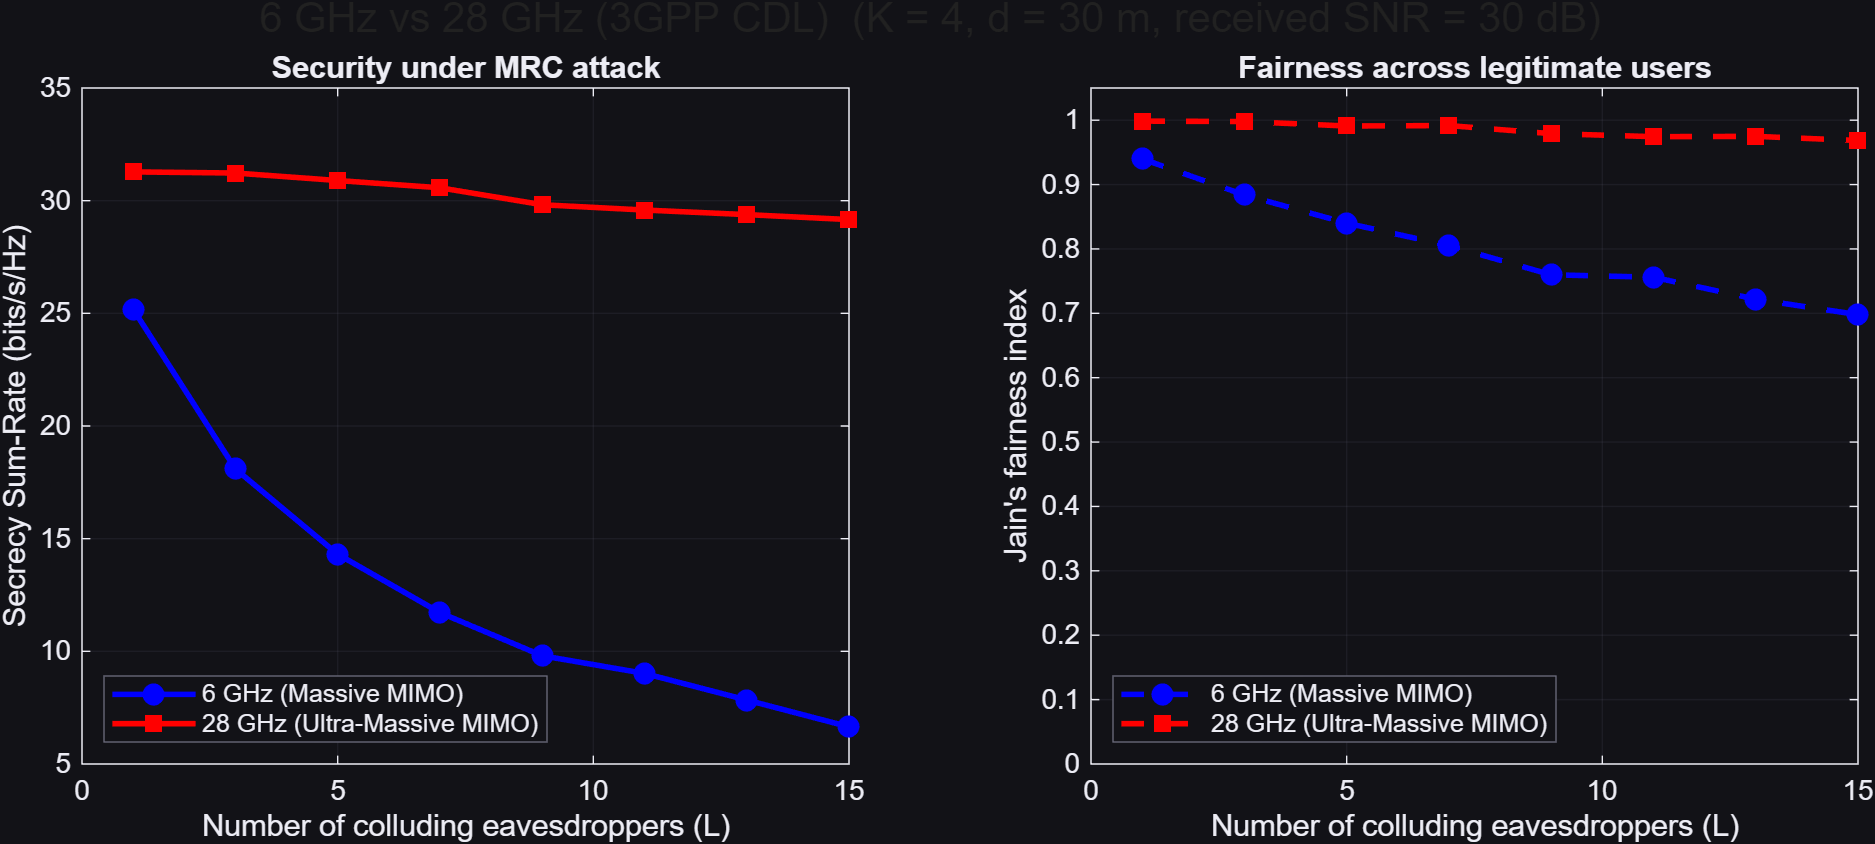
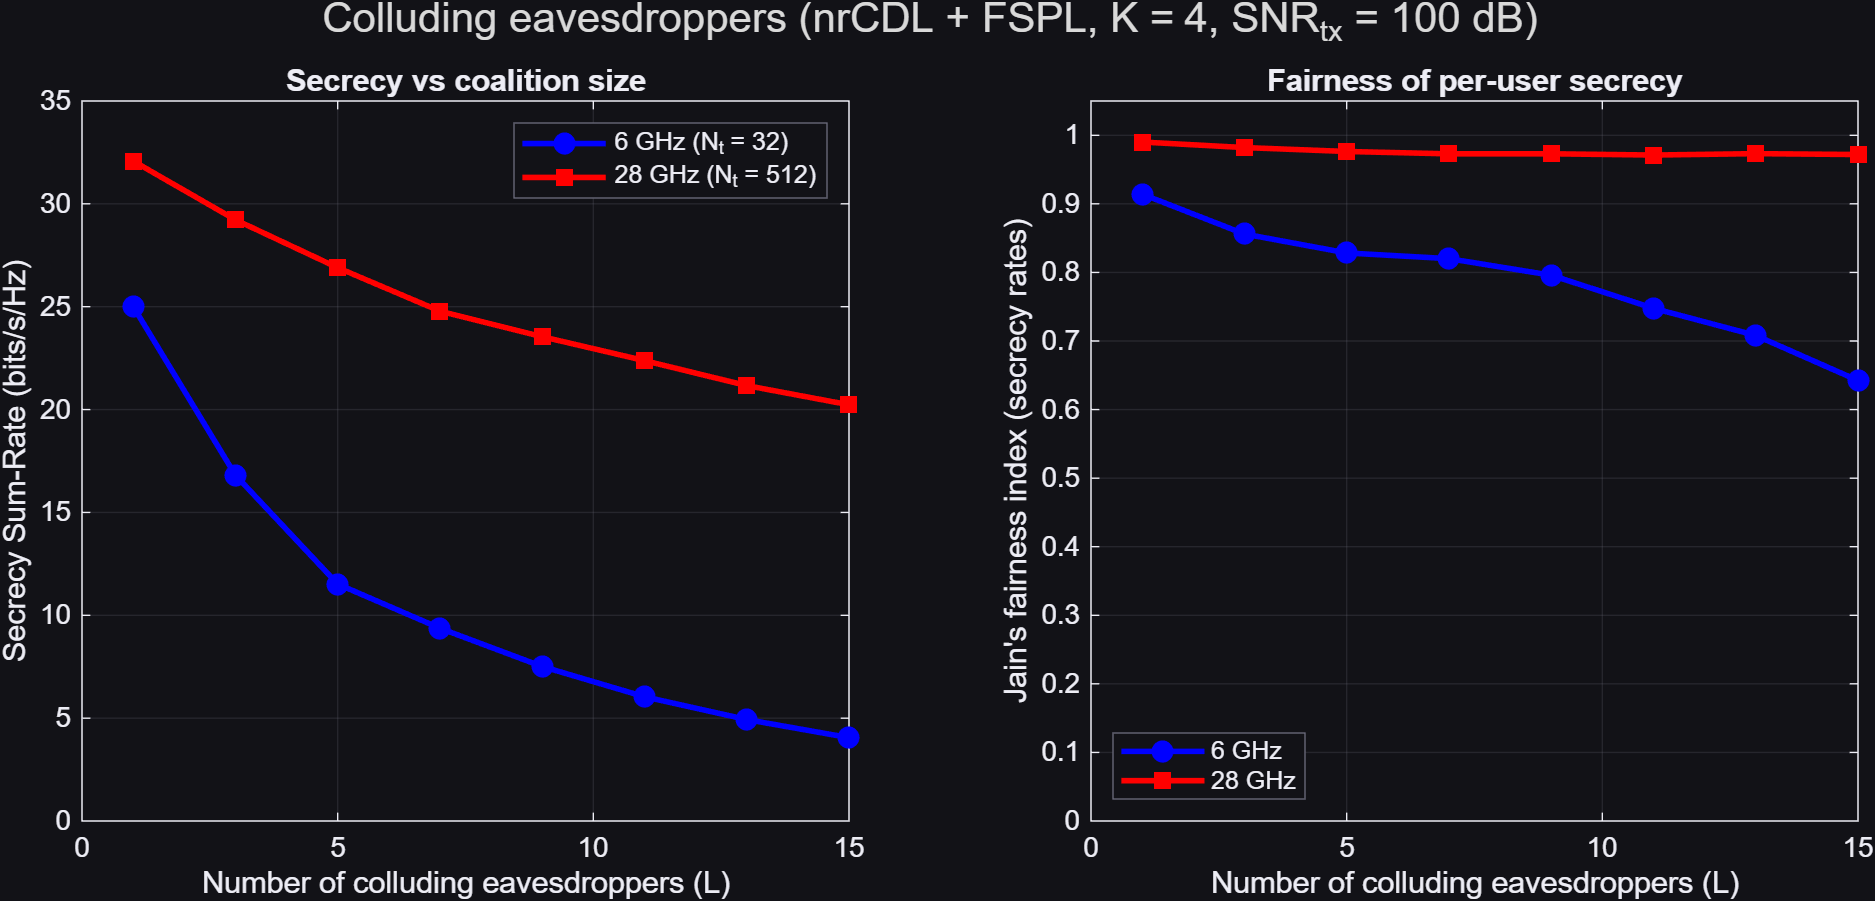
Fix colluding eavesdroppers scenario and align README conventions

diff --git a/simulations/sim_colluding_eavesdroppers.m b/simulations/sim_colluding_eavesdroppers.m
@@ -1,184 +1,157 @@
 % =========================================================================
-% SCENARIO: 6 GHz vs 28 GHz under Targeted Attack with ARTIFICIAL NOISE
+% SCENARIO: Colluding eavesdroppers (6 GHz vs 28 GHz)
 % -------------------------------------------------------------------------
-% Porównanie odporności systemu z włączonym i wyłączonym Sztucznym Szumem.
-% BS dzieli moc: 70% na dane, 30% na zagłuszanie (AN) w null-space Bobów.
+% nrCDLChannel + FSPL + Transmit SNR.
+% BS: ZF across K Bobs. Eve coalition: cooperative MRC (R = I_L).
+% Sweep: number of cooperating eavesdroppers L.
 % =========================================================================
 pls_startup();
 addpath(fullfile(fileparts(mfilename('fullpath')), '..', 'utils'));
 p = default_params();
 rng(p.rng_seed);
 
-% --- PARAMETRY FIZYCZNE I SYSTEMOWE ---
-dist        = 50;                     
-L_values    = 1:2:15;                 
-K           = 4;                      
-numIter     = 10;                     
-SNR_tx_dB   = 100;                    
-P_tx        = 10^(SNR_tx_dB / 10);
-
-% Parametry Sztucznego Szumu
-phi_AN      = 0.7; % 70% mocy na przesył danych, 30% na Sztuczny Szum
+dist      = 50;
+L_values  = 1:2:15;
+K         = 4;
+numIter   = p.numIter;
+SNR_tx_dB = 100;
+P_tx      = 10^(SNR_tx_dB / 10);
+noise_var = 1;
 
 bands = struct( ...
     'name', {'6 GHz', '28 GHz'}, ...
     'fc',   {p.fc_sub6, p.fc_mmwave}, ...
-    'Nt',   {p.Nt_sub6, p.Nt_mmwave}, ...
-    'cdl',  {p.cdl_sub6, p.cdl_mmwave});
+    'Nt',   {p.Nt_sub6, p.Nt_mmwave});
 
-% Macierze wynikowe: (Pasmo, Tryb_AN, L_values)
-results_SR    = zeros(2, 2, length(L_values));
-results_Fair  = zeros(2, 2, length(L_values));
-
+results_SR   = zeros(2, length(L_values));
+results_Fair = zeros(2, length(L_values));
 max_L = max(L_values);
 
 for b = 1:2
-    fc = bands(b).fc;  Nt = bands(b).Nt;  
+    fc = bands(b).fc;
+    Nt = bands(b).Nt;
     [PL_lin, PL_dB] = compute_fspl(dist, fc);
-    
-    fprintf('\n--- Symulacja Artificial Noise @ %s ---\n', bands(b).name);
-    
+
+    fprintf('\n--- Colluding eavesdroppers @ %s ---\n', bands(b).name);
+    fprintf('  Transmit SNR: %d dB\n', SNR_tx_dB);
+    fprintf('  d = %g m (FSPL: %.2f dB)\n', dist, PL_dB);
+
     cdl_b = cell(K, 1);
-    for k = 1:K, cdl_b{k} = nrCDLChannel; end
+    for k = 1:K
+        cdl_b{k} = nrCDLChannel;
+    end
     cdl_e = cell(max_L, 1);
-    for e = 1:max_L, cdl_e{e} = nrCDLChannel; end
+    for e = 1:max_L
+        cdl_e{e} = nrCDLChannel;
+    end
 
     for l_idx = 1:length(L_values)
         num_eve = L_values(l_idx);
-        % Akumulatory: [Bez AN, Z AN]
-        SR_acc = zeros(1, 2); 
-        F_acc  = zeros(1, 2);
-        
+        SR_acc = 0;
+        F_acc  = 0;
+
         for it = 1:numIter
-            theta_bobs = -60 + 120*rand(1, K);
-            
-            % Atak z bliska (Ewy skradają się pod kąty Bobów)
-            target_bob_idx = randi(K, 1, num_eve); 
-            angular_error  = -6 + 12 * rand(1, num_eve); 
-            theta_eves     = theta_bobs(target_bob_idx) + angular_error;
-            
+            theta_bobs = -60 + 120 * rand(1, K);
+            theta_eves = -60 + 120 * rand(1, num_eve);
+
             H_eff = zeros(Nt, K);
             for k = 1:K
                 cdl_b{k} = setup_matlab_cdl(cdl_b{k}, Nt, fc, theta_bobs(k));
-                cdl_b{k}.Seed = randi([0 2^31-1]);
+                release(cdl_b{k});
+                cdl_b{k}.Seed = randi([0 2^31 - 1]);
                 [pg_b, ~] = cdl_b{k}();
-                hb = squeeze(sum(pg_b, 2)); hb = hb(:);
+                hb = squeeze(sum(pg_b, 2));
+                hb = hb(:);
                 H_eff(:, k) = sqrt((1 / PL_lin) * Nt) * (hb / norm(hb));
             end
-            
+
             G_eff = zeros(Nt, num_eve);
             for e = 1:num_eve
                 cdl_e{e} = setup_matlab_cdl(cdl_e{e}, Nt, fc, theta_eves(e));
-                cdl_e{e}.Seed = randi([0 2^31-1]);
+                release(cdl_e{e});
+                cdl_e{e}.Seed = randi([0 2^31 - 1]);
                 [pg_e, ~] = cdl_e{e}();
-                he = squeeze(sum(pg_e, 2)); he = he(:);
+                he = squeeze(sum(pg_e, 2));
+                he = he(:);
                 G_eff(:, e) = sqrt((1 / PL_lin) * Nt) * (he / norm(he));
             end
-            
-            % Prekoder ZF na dane
-            W_raw = H_eff * pinv(H_eff' * H_eff);
+
+            W_raw = H_eff * pinv(H_eff' * H_eff + 1e-9 * eye(K));
             W = W_raw / norm(W_raw, 'fro');
-            
-            % --- BAZA PRZESTRZENI ZEROWEJ DLA AN ---
-            % Z znajduje wektory ortogonalne do kanałów Bobów
-            Z = null(H_eff'); 
-            
-            % --- PĘTLA TRYBÓW (1: Bez AN, 2: Z AN) ---
-            for an_mode = 1:2
-                if an_mode == 1
-                    phi = 1.0;          % 100% mocy na dane
-                    Q_AN = zeros(Nt, Nt); % Brak szumu
-                else
-                    phi = phi_AN;       % 70% mocy na dane
-                    P_AN = (1 - phi) * P_tx; % 30% mocy na szum
-                    % Kowariancja szumu rozłożona równo w null-space
-                    Q_AN = (P_AN / (Nt - K)) * (Z * Z'); 
-                end
-                
-                R_b = zeros(K, 1);
-                R_e = zeros(K, 1);
-                
-                % Macierz kowariancji zakłóceń u Ew (Szum własny + AN stacji bazowej)
-                R_AN_eve = G_eff' * Q_AN * G_eff + eye(num_eve);
-                R_AN_eve_inv = inv(R_AN_eve);
-                
-                for k = 1:K
-                    % Pojemność Boba (Sygnał przeskalowany przez phi)
-                    S_b = phi * P_tx * abs(H_eff(:, k)' * W(:, k))^2;
-                    I_b = 0;
-                    for j = 1:K
-                        if j ~= k
-                            I_b = I_b + phi * P_tx * abs(H_eff(:, k)' * W(:, j))^2;
-                        end
+            R_inv = eye(num_eve);
+
+            R_b = zeros(K, 1);
+            R_e = zeros(K, 1);
+            for k = 1:K
+                sig_b = P_tx * abs(H_eff(:, k)' * W(:, k))^2;
+                intf_b = 0;
+                for j = 1:K
+                    if j ~= k
+                        intf_b = intf_b + P_tx * abs(H_eff(:, k)' * W(:, j))^2;
                     end
-                    R_b(k) = log2(1 + S_b / (I_b + 1)); % Bob nie odbiera AN
-                    
-                    % Pojemność Ewy pod atakiem MRC (Uwzględnia kolorowy szum AN)
-                    h_ek = sqrt(phi * P_tx) * G_eff' * W(:, k);
-                    R_e(k) = log2(1 + real(h_ek' * R_AN_eve_inv * h_ek));
                 end
-                
-                % Zapis wyników dla danego trybu
-                R_s = max(0, R_b - R_e);
-                SR_acc(an_mode) = SR_acc(an_mode) + sum(R_s);
-                if sum(R_s.^2) == 0
-                    F_acc(an_mode) = F_acc(an_mode) + 0;
-                else
-                    F_acc(an_mode) = F_acc(an_mode) + (sum(R_s))^2 / (K * sum(R_s.^2));
-                end
+                R_b(k) = log2(1 + sig_b / (intf_b + noise_var));
+
+                h_ek = sqrt(P_tx) * G_eff' * W(:, k);
+                R_e(k) = log2(1 + real(h_ek' * R_inv * h_ek));
+            end
+
+            R_s = max(0, R_b - R_e);
+            SR_acc = SR_acc + sum(R_s);
+            rs_sum = sum(R_s);
+            if rs_sum > 0
+                F_acc = F_acc + (rs_sum^2) / (K * sum(R_s.^2));
             end
         end
-        
-        results_SR(b, :, l_idx)   = SR_acc / numIter;
-        results_Fair(b, :, l_idx) = F_acc  / numIter;
+
+        results_SR(b, l_idx)   = SR_acc / numIter;
+        results_Fair(b, l_idx) = F_acc / numIter;
     end
 end
 
-% --- WIZUALIZACJA ---
 fig = figure('Color', 'w', 'Position', [100 100 1100 450]);
 
 subplot(1, 2, 1);
-plot(L_values, squeeze(results_SR(1,1,:)), '-bo', 'LineWidth', 2, 'MarkerFaceColor', 'b'); hold on;
-plot(L_values, squeeze(results_SR(1,2,:)), '--b^', 'LineWidth', 2, 'MarkerFaceColor', 'b');
-plot(L_values, squeeze(results_SR(2,1,:)), '-rs', 'LineWidth', 2, 'MarkerFaceColor', 'r');
-plot(L_values, squeeze(results_SR(2,2,:)), '--r^', 'LineWidth', 2, 'MarkerFaceColor', 'r');
-grid on; box on;
+plot(L_values, results_SR(1, :), '-bo', 'LineWidth', 2, 'MarkerFaceColor', 'b');
+hold on;
+plot(L_values, results_SR(2, :), '-rs', 'LineWidth', 2, 'MarkerFaceColor', 'r');
+grid on;
+box on;
 xlabel('Number of colluding eavesdroppers (L)');
 ylabel('Secrecy Sum-Rate (bits/s/Hz)');
-title('Impact of Artificial Noise (AN)');
-legend('6 GHz (No AN)', '6 GHz (With 30% AN)', '28 GHz (No AN)', '28 GHz (With 30% AN)', 'Location', 'NorthEast');
+title('Secrecy vs coalition size');
+legend('6 GHz (N_t = 32)', '28 GHz (N_t = 512)', 'Location', 'NorthEast');
 
 subplot(1, 2, 2);
-plot(L_values, squeeze(results_Fair(1,1,:)), '-bo', 'LineWidth', 2, 'MarkerFaceColor', 'b'); hold on;
-plot(L_values, squeeze(results_Fair(1,2,:)), '--b^', 'LineWidth', 2, 'MarkerFaceColor', 'b');
-plot(L_values, squeeze(results_Fair(2,1,:)), '-rs', 'LineWidth', 2, 'MarkerFaceColor', 'r');
-plot(L_values, squeeze(results_Fair(2,2,:)), '--r^', 'LineWidth', 2, 'MarkerFaceColor', 'r');
-grid on; box on; ylim([0 1.05]);
+plot(L_values, results_Fair(1, :), '-bo', 'LineWidth', 2, 'MarkerFaceColor', 'b');
+hold on;
+plot(L_values, results_Fair(2, :), '-rs', 'LineWidth', 2, 'MarkerFaceColor', 'r');
+grid on;
+box on;
+ylim([0 1.05]);
 xlabel('Number of colluding eavesdroppers (L)');
-ylabel("Jain's fairness index");
-title('Fairness across Bobs');
-legend('6 GHz (No AN)', '6 GHz (With AN)', '28 GHz (No AN)', '28 GHz (With AN)', 'Location', 'SouthWest');
+ylabel("Jain's fairness index (secrecy rates)");
+title('Fairness of per-user secrecy');
+legend('6 GHz', '28 GHz', 'Location', 'SouthWest');
 
-sgtitle(sprintf('Targeted Attack Countermeasures: Baseline vs Artificial Noise (K = %d)', K));
-save_figure(fig, 'fig_artificial_noise_comparison');
+sgtitle(sprintf('Colluding eavesdroppers (nrCDL + FSPL, K = %d, SNR_{tx} = %d dB)', K, SNR_tx_dB));
+save_figure(fig, 'fig_colluding_eavesdroppers');
 
-% =========================================================================
-% FUNKCJA POMOCNICZA
-% =========================================================================
+
 function cdl = setup_matlab_cdl(cdl, Nt, fc, theta)
     release(cdl);
     cdl.DelayProfile = 'CDL-A';
-    if fc < 10e9  
-        cdl.DelaySpread = 30e-9;  
-    else          
-        cdl.DelaySpread = 10e-9;  
+    if fc < 10e9
+        cdl.DelaySpread = 30e-9;
+    else
+        cdl.DelaySpread = 10e-9;
     end
     cdl.CarrierFrequency = fc;
-    cdl.MaximumDopplerShift = 0;         
-    cdl.TransmitAntennaArray.Size = [1 Nt 1 1 1]; 
-    cdl.TransmitAntennaArray.ElementSpacing = [0.5 0.5 1 1]; 
+    cdl.MaximumDopplerShift = 0;
+    cdl.TransmitAntennaArray.Size = [1 Nt 1 1 1];
+    cdl.TransmitAntennaArray.ElementSpacing = [0.5 0.5 1 1];
     cdl.TransmitArrayOrientation = [-theta; 0; 0];
     cdl.ReceiveAntennaArray.Size = [1 1 1 1 1];
     cdl.NumTimeSamples = 1;
-    cdl.ChannelFiltering = false; 
+    cdl.ChannelFiltering = false;
 end

diff --git a/utils/list_project_requirements.m b/utils/list_project_requirements.m
@@ -18,13 +18,16 @@ function list_project_requirements()
     fprintf('  Special funcs  : besselj (Jakes model in jakes_correlation.m)\n');
     fprintf('  Plotting       : figure, plot, saveas (export via save_figure.m)\n\n');
 
+    fprintf('Required add-on\n');
+    print_toolbox('5G Toolbox', '5g', {'nrCDLChannel'});
+
     fprintf('Not used\n');
-    fprintf('  Communications Toolbox, WLAN Toolbox, 5G Toolbox, Antenna Toolbox\n\n');
+    fprintf('  Communications Toolbox, WLAN Toolbox, Antenna Toolbox\n\n');
 
     fprintf('Entry points that enforce requirements\n');
     fprintf('  run_all.m, pls_startup.m, setup_ula.m, default_params.m\n\n');
 
-    fprintf('Scenarios using Phased Array (ULA + 3GPP CDL steering)\n');
+    fprintf('Scenarios using nrCDLChannel (5G Toolbox)\n');
     tags = { ...
         'Ghz6_band_vs_mmWave_band', ...
         'sim_moving_bob', ...
@@ -32,20 +35,15 @@ function list_project_requirements()
         'sim_colluding_eavesdroppers', ...
         'sim_artificial_noise', ...
         'sim_phase_noise', ...
-        'sim_location_error'};
-    for k = 1:numel(tags)
-        fprintf('  - %s\n', tags{k});
-    end
-    fprintf('\nScenarios using physconst via default_params only (Rayleigh / abstract)\n');
-    tags2 = { ...
+        'sim_location_error', ...
         'sim_spatial_correlation', ...
         'sim_fairness_normalization', ...
         'sim_channel_hardening', ...
         'sim_low_res_dac', ...
         'sim_pilot_jamming', ...
         'sim_csi_aging'};
-    for k = 1:numel(tags2)
-        fprintf('  - %s\n', tags2{k});
+    for k = 1:numel(tags)
+        fprintf('  - %s\n', tags{k});
     end
     fprintf('\n(generate_topologies.m needs default_params → Phased Array)\n');
 end

diff --git a/utils/assert_requirements.m b/utils/assert_requirements.m
@@ -3,12 +3,14 @@ function assert_requirements(toolbox_id)
 %
 %   assert_requirements()  — check everything this project needs
 %   assert_requirements('Phased_Array_System_Toolbox')
+%   assert_requirements('5G_Toolbox')
 %
 %   See also: list_project_requirements
 
     if nargin < 1
         assert_matlab_version();
         assert_requirements('Phased_Array_System_Toolbox');
+        assert_requirements('5G_Toolbox');
         return;
     end
 
@@ -19,6 +21,9 @@ function assert_requirements(toolbox_id)
             if ok
                 ok = exist('phased.ULA', 'class') == 8 && exist('physconst', 'file') == 2;
             end
+        case '5G_Toolbox'
+            name = '5G Toolbox';
+            ok = ~isempty(ver('5g')) && exist('nrCDLChannel', 'file') >= 2;
         otherwise
             error('assert_requirements:unknown', 'Unknown toolbox id: %s', toolbox_id);
     end

diff --git a/README.md b/README.md
@@ -52,10 +52,10 @@ list_project_requirements
 
 | File | Purpose |
 |------|---------|
-| `default_params.m` | Project-wide parameters (carriers, antennas, SNR, RNG seed) |
+| `default_params.m` | Project-wide parameters (carriers, antennas, RNG seed) |
 | `setup_ula.m` | Half-wavelength ULA + `phased.SteeringVector` |
-| `channel_3gpp_ula.m` | TR 38.901-inspired CDL-A / CDL-D on ULA |
-| `assert_requirements.m` | Fail fast if MATLAB or Phased Array Toolbox is missing |
+| `compute_fspl.m` | Free-space path loss for link budget |
+| `assert_requirements.m` | Fail fast if MATLAB, Phased Array, or 5G Toolbox is missing |
 | `list_project_requirements.m` | Print dependency audit |
 | `secrecy_rate.m` | `max(0, R_bob - R_eve)` (Wyner) |
 | `apply_plot_style.m` | Dark theme, line colors, legend + reference-line labels |
@@ -103,8 +103,9 @@ All scripts use `default_params.rng_seed = 2026` for reproducibility.
 
 ## Conventions
 
-- **SNR:** `SNR_rx_dB` is received SNR at Bob (`rx_snr_power`). `print_scenario_snr` logs TX/RX per actor when `dist_m` / `fc_Hz` are set. Abstract Rayleigh scripts use normalized channels (no FSPL in H).
-- **3GPP channels:** `channel_3gpp_ula` — CDL-A-like @ 6 GHz, CDL-D-like @ 28 GHz (cluster + ULA steering; not a full 3GPP stack).
+- **SNR:** Scenarios use **transmit SNR** `SNR_tx_dB` with `P_tx = 10^(SNR_tx_dB/10)` and `noise_var = 1`. Path loss via `compute_fspl(dist, fc)`. Effective channel (typical): `h_eff = sqrt((1/PL)*Nt) * (h/norm(h))`. Exception: `sim_channel_hardening` uses `h_eff = sqrt(1/PL)*h_raw`.
+- **Channels:** `nrCDLChannel` (5G Toolbox), CDL-A profile, ULA steering via `TransmitArrayOrientation`. Not a full 3GPP stack simulator.
+- **Logging:** `fprintf` link budget per scenario (distance, FSPL, `SNR_tx`). Legacy helpers `print_scenario_snr` / `SNR_rx_dB` in `default_params` are unused by current scripts.
 - **Noise:** `noise_var = 1` (linear) unless overridden.
 - **Secrecy rate:** `max(0, R_b - R_e)` per user; sum where noted.
 - **Plots:** Dark background (`#1a1a2e`), light axes; Bob green, Eve salmon. `results/run_all.log` is git-ignored; PNGs are committed.
